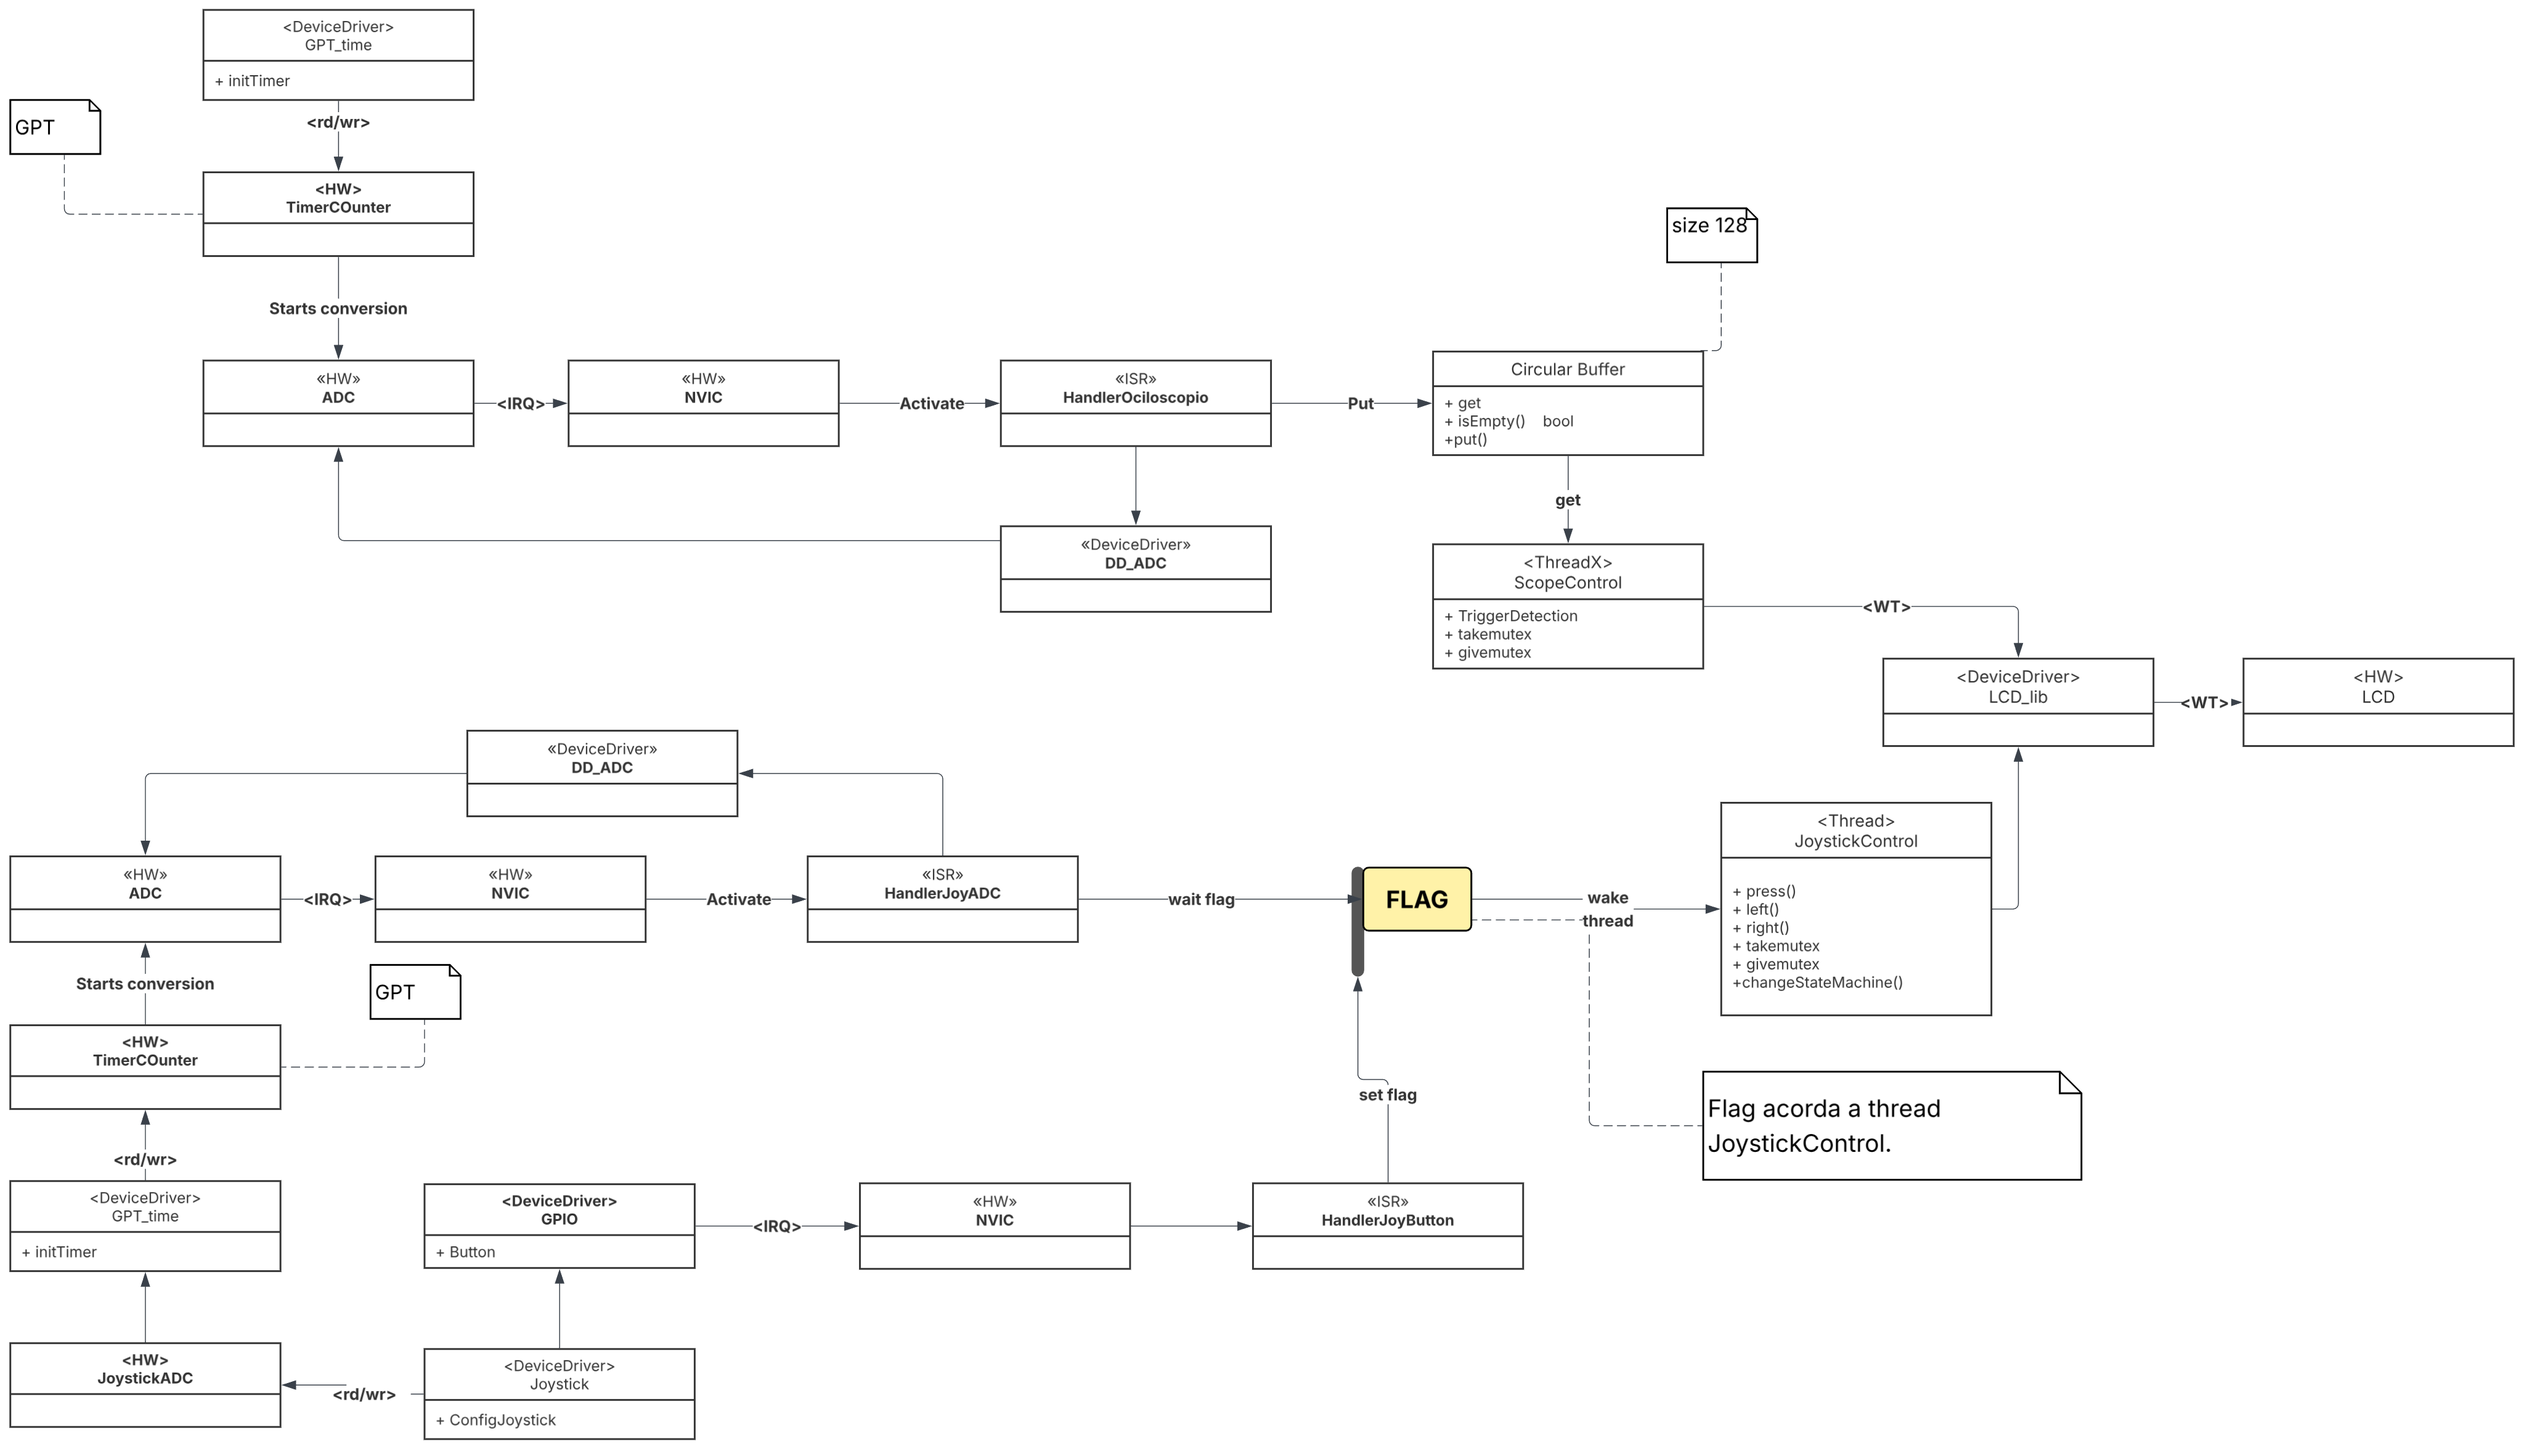
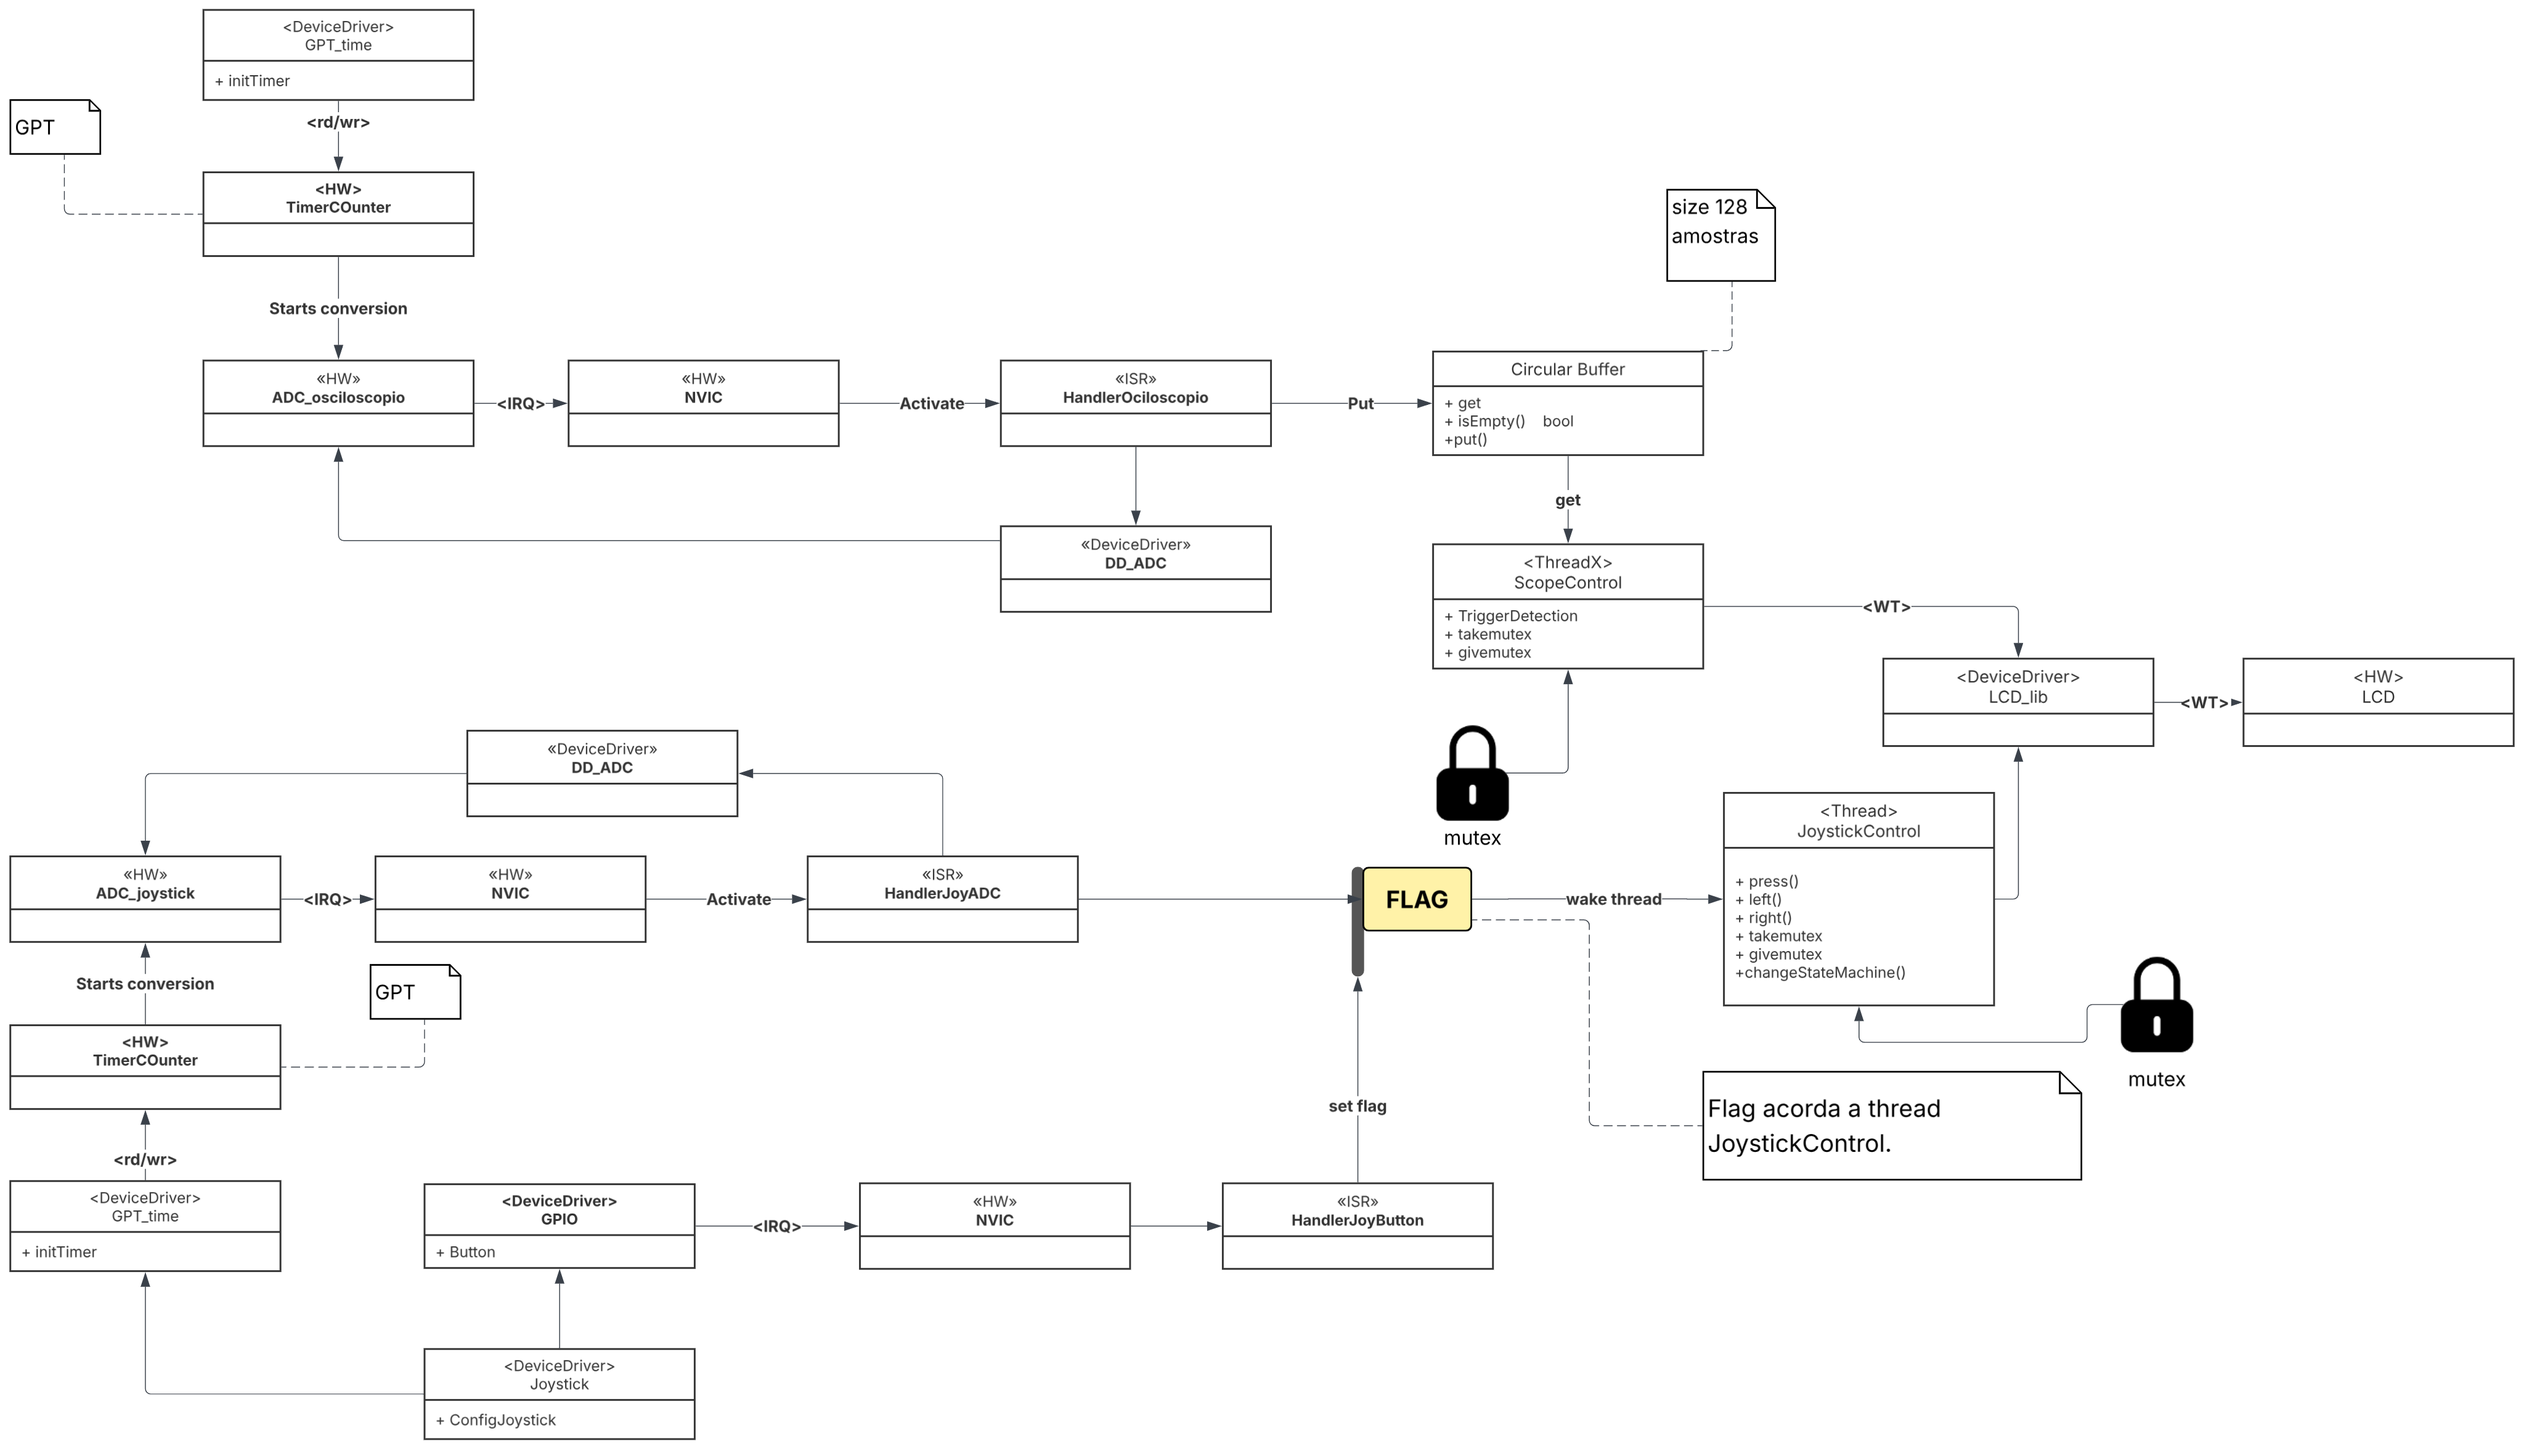
mudanças relatório

diff --git a/Projeto final/readme-Parte2.md b/Projeto final/readme-Parte2.md
@@ -31,7 +31,7 @@ O diagrama de arquitetura funcional apresentado ilustra o fluxo de dados e a div
 
 ### 3 Arquitetura Física (Arquitetura da Solução)
 
-![Diagrama da Arquitetura Física](./assets/UML_HW.png)
+<img src="./assets/UML_HW.png" style="background-color: white;">
 
 
 ### 4 Interface com o Usuário
@@ -81,15 +81,44 @@ A solução proposta utiliza uma plataforma de hardware predefinida, baseada no 
 **Maquina de estado**
 
 A maquina de estado representa os dois estados do algoritmo, o primeiro sendo o modo osciloscópio, onde é plotado a onda e através do evento de click do botão do Joystick, o segundo modo , configuração, é acionado. Após precionar 7 vezes no botão do joystick ou clicar voltar, a maquina de estado volta ao seu primeiro estado.
-![Máquina de Estado](./assets/state_machine.png)
+<img src="./assets/state_machine.png" style="background-color: white;">
 
 **Fluxograma**
 
 Esse fluxograma mostra o funcionamento da thread do Osciloscópio, em que fica num looping adquirindo sinal, fazendo as operações matemáticas, e caso esteja no estado de osciloscópio, manda as informações ao LCD, caso contrario, começa a adquirir dados novos e sobrescreve seus dados antigos.
 
-![Fluxograma](./assets/fluxograma.png)
+<img src="./assets/fluxograma.png" style="background-color: white;">
+
+**Planejamento Temporal: Aquisição e Processamento em Tempo Real**
+
+O sistema opera com uma taxa de amostragem fixa de fs = 20 kHz, o que garante a reconstrução fiel de sinais de até 2 kHz (abrangendo até a sua 5ª harmônica, 10 kHz). Isso equivale a um intervalo de tempo rigoroso entre as coletas. Dentro de cada intervalo, os eventos de hardware ocorrem de forma estrita, enquanto o processamento e a exibição ocorrem no tempo livre gerenciado pelo RTOS:
+
+* **Taxa de Amostragem:** `fs = 20 kHz` (Ts = 50μs).
+
+**Sequência de eventos por ciclo de amostragem (Ts = 50μs):**
+
+| Tempo (relativo) | Evento e Descrição |
+| :--- | :--- |
+| 0μs | GPTM (Timer de Hardware) aciona internamente o *trigger* do ADC. |
+| 0–1μs | ADC realiza a amostragem e conversão do sinal analógico. |
+| 1–2μs | Conversão finalizada (12 bits) e interrupção do ADC é disparada ao NVIC. |
+| 2–3μs | Execução da ISR (`HandlerOsciloscopio`), que salva a amostra no *Circular Buffer*. |
+| 3–50μs | A *Thread* `ScopeControl` consome os dados, aplica escalas, encontra o *trigger* visual e atualiza o display via SPI. |
+
+A seguir o diagrama de tempo evidenciando a divisão entre as etapas de hardware crítico e as tarefas assíncronas do RTOS:
+
+```text
+               :     :        :                                          :
+ Timer Trigger : ADC : ADCIRQ :       RTOS (ScopeControl Thread)         :
+  (Hardware)   :     :        : (Cálculos de Escala e Atualização do LCD):
+               :     :        :                                          :
+---------------|-----|--------|------------------------------------------|----> Tempo
+              0μs   1μs      3μs                                        50μs
+```
+
 
 **Escalonamento**
+
 O sistema utiliza o ThreadX RTOS com política de escalonamento preemptivo por prioridade fixa. As interrupções são tratadas diretamente pelo NVIC (prioridade absoluta de hardware), enquanto as tarefas de software são preemptíveis de acordo com sua prioridade. A estrutura de escalonamento é a seguinte:
 
 * **Timer IRQ (NVIC):** Prioridade máxima no NVIC. Gera o trigger periódico de hardware para o ADC.
